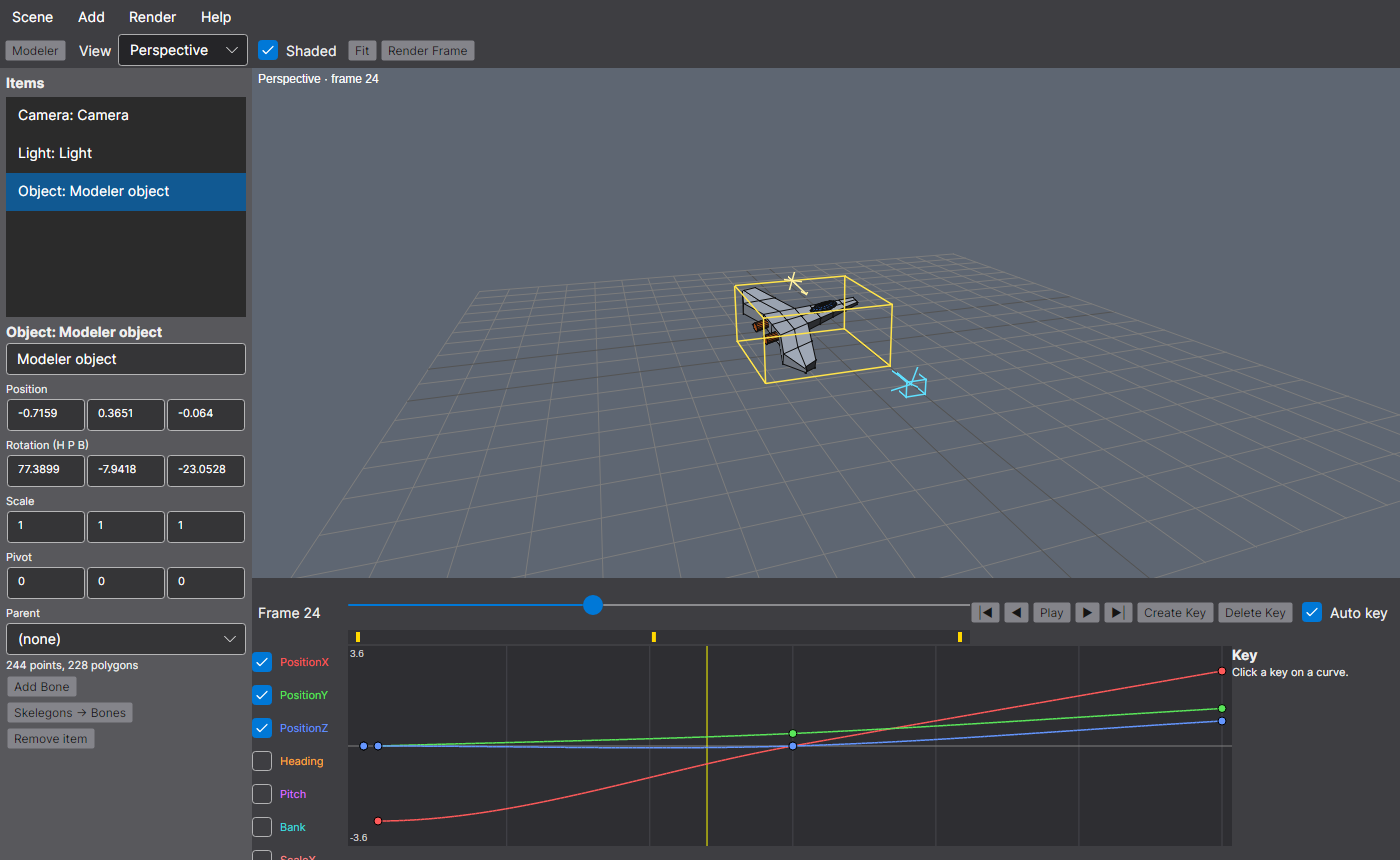
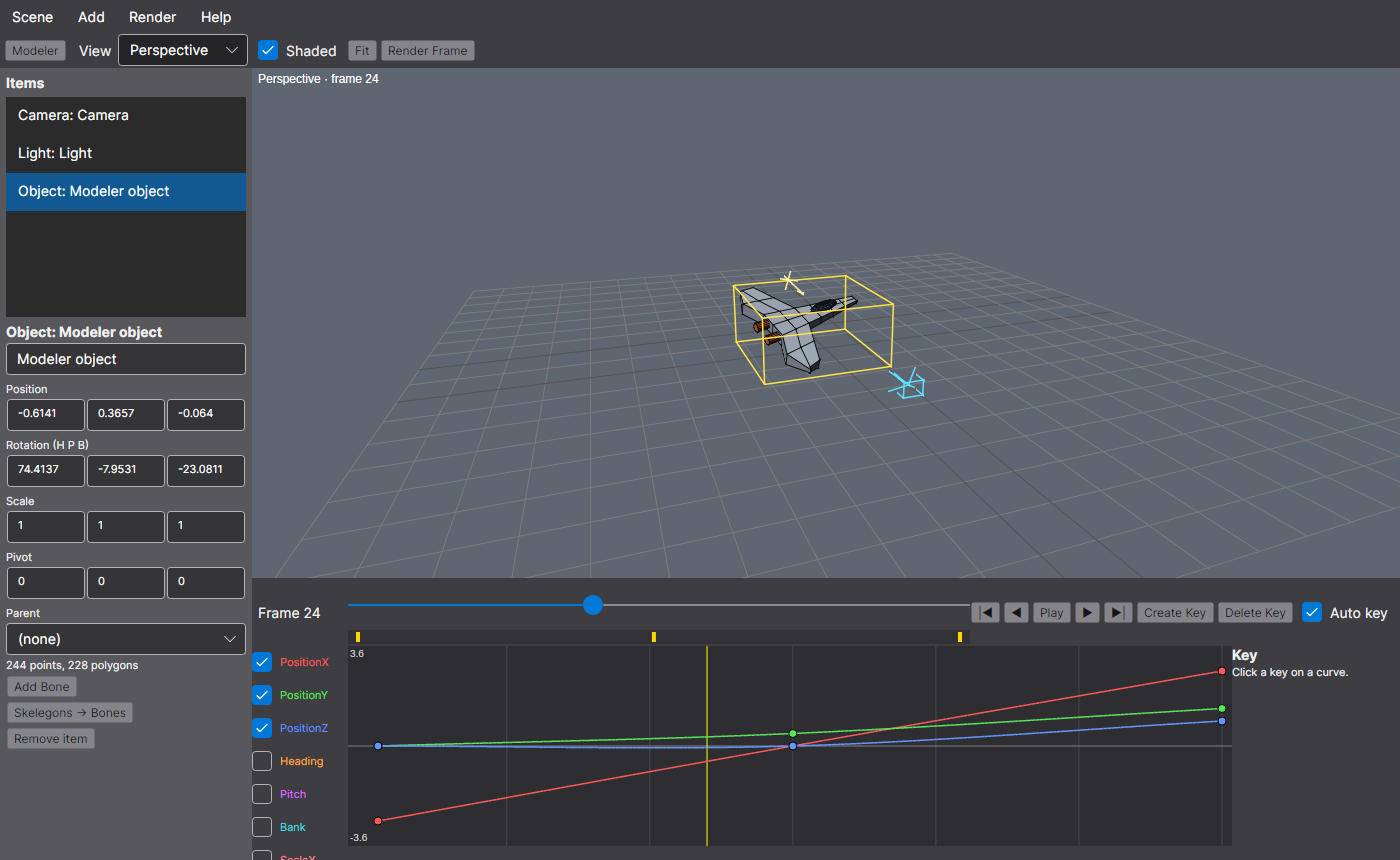
Layout's own keys follow the agents' keying rule
Moving, turning or typing values into an item in Layout now keys through
Keying, as agents' set_transform does: with Auto key on, a channel's first
key replaces its frame-0 constant, so the motion starts at the first frame
keyed. With Auto key off, a channel with one key or none changes
throughout, and an animated one changes (or gains) its key at the frame.
Create Key follows the same rule, and Delete Key leaves a channel's only
key, which holds its value, as delete_key does.

The README's Layout screenshot is refreshed: without the frame-0 keys the
ship sits slightly differently at frame 24.

diff --git a/src/AVAModeler.Layout/LayoutSession.cs b/src/AVAModeler.Layout/LayoutSession.cs
@@ -143,12 +143,17 @@ public sealed class LayoutSession
 
     // ───────────────────────────── editing items ─────────────────────────────
 
-    /// <summary>Sets a channel at the current frame: a key with auto-key on, otherwise the key here (if any) or the whole channel.</summary>
+    /// <summary>
+    /// Sets a channel at the current frame by the rule AI agents' keys follow (<see cref="Keying"/>). With auto-key on,
+    /// a key here; the first one replaces the constant of a channel never keyed, so its animation starts at the first
+    /// frame keyed, not at a key at frame 0 nobody chose. With auto-key off, the value throughout for a channel with
+    /// one key or none, or the key here on an animated channel (one with no key here gets one, so the change isn't lost).
+    /// </summary>
     public void SetChannel(SceneItem item, Channel channel, double value)
     {
         var env = item[channel];
-        if (AutoKey || env.IndexOf(Frame) >= 0 || env.Keys.Count > 1) env.AddKey(Frame, value);
-        else env.SetConstant(value);
+        bool key = AutoKey || Keying.IsAnimated(env) && env.IndexOf(Frame) < 0;
+        Keying.Set(env, Scene, Frame, value, key, $"{item.Name}'s {channel}");
         Scene.Notify();
     }
 
@@ -159,18 +164,32 @@ public sealed class LayoutSession
         SetChannel(item, (Channel)(first + 2), v.Z);
     }
 
+    /// <summary>Keys every channel of the chosen item at this frame with its value here, by the same rule as <see cref="SetChannel"/>.</summary>
     public void CreateKey()
     {
         if (Selected == null) return;
-        Selected.CreateKey(Frame);
+        var values = Selected.Channels.Select(c => c.Evaluate(Frame)).ToArray();
+        for (int i = 0; i < values.Length; i++) Keying.Key(Selected.Channels[i], Scene, new EnvelopeKey(Frame, values[i]), keepShape: true);
+        Scene.Notify();
         SetStatus($"Key made at frame {Frame:0}.");
     }
 
+    /// <summary>
+    /// Removes the chosen item's keys at this frame, but not a channel's only key, which holds its value (as agents'
+    /// delete_key does): without it the channel would fall to 0.
+    /// </summary>
     public void DeleteKey()
     {
         if (Selected == null) return;
-        Selected.DeleteKey(Frame);
-        SetStatus($"Key at frame {Frame:0} deleted.");
+        int kept = 0;
+        foreach (var c in Selected.Channels)
+        {
+            if (c.IndexOf(Frame) < 0) continue;
+            if (c.Keys.Count == 1) kept++;
+            else c.RemoveKeyAt(Frame);
+        }
+        Scene.Notify();
+        SetStatus($"Key at frame {Frame:0} deleted." + (kept > 0 ? $" {kept} channel(s) kept it: it's their only key." : ""));
     }
 
     public void Remove(SceneItem item)

diff --git a/tests/AVAModeler.Layout.Tests/LayoutSessionTests.cs b/tests/AVAModeler.Layout.Tests/LayoutSessionTests.cs
@@ -61,6 +61,53 @@ public class LayoutSessionTests
     }
 
     [Fact]
+    public void Layouts_own_keys_follow_the_same_rule_as_agents()
+    {
+        var s = new LayoutSession();
+        var cam = s.Scene.Cameras.Single();
+        var x = cam[Channel.PositionX];
+
+        // Auto-key: the first key replaces the frame-0 constant, so the motion starts at the first frame keyed.
+        s.SetFrame(10);
+        s.SetChannel(cam, Channel.PositionX, 2);
+        s.SetFrame(40);
+        s.SetChannel(cam, Channel.PositionX, 8);
+        Assert.Equal([10.0, 40.0], x.Keys.Select(k => k.Frame));
+        Assert.Equal(2, cam.PositionAt(1).X, 9);
+
+        // Auto-key off: a channel with one key or none changes throughout; an animated one changes its key here,
+        // and gets one where it has none, so the change isn't lost.
+        s.AutoKey = false;
+        s.SetChannel(cam, Channel.PositionY, 3);
+        Assert.Single(cam[Channel.PositionY].Keys);
+        Assert.Equal(3, cam.PositionAt(50).Y);
+        s.SetChannel(cam, Channel.PositionX, 9);
+        Assert.Equal([10.0, 40.0], x.Keys.Select(k => k.Frame));
+        Assert.Equal(9, x.Evaluate(40));
+        s.SetFrame(25);
+        s.SetChannel(cam, Channel.PositionX, 5);
+        Assert.Equal([10.0, 25.0, 40.0], x.Keys.Select(k => k.Frame));
+
+        // Create Key replaces the constants of channels never keyed too.
+        var light = s.Scene.Lights.Single();
+        s.Select(light);
+        s.SetFrame(5);
+        s.CreateKey();
+        Assert.All(light.Channels, c => Assert.Equal([5.0], c.Keys.Select(k => k.Frame)));
+
+        // Delete Key keeps a channel's only key, which holds its value.
+        var y = light.PositionAt(5).Y;
+        s.DeleteKey();
+        Assert.All(light.Channels, c => Assert.Single(c.Keys));
+        Assert.Equal(y, light.PositionAt(5).Y);
+        Assert.Contains("only key", s.Status);
+        s.Select(cam);
+        s.SetFrame(25);
+        s.DeleteKey();
+        Assert.Equal([10.0, 40.0], x.Keys.Select(k => k.Frame));
+    }
+
+    [Fact]
     public void The_scene_is_modified_until_saved_and_saves_say_what_they_drop()
     {
         var s = new LayoutSession();

diff --git a/src/AVAModeler.Layout/Keying.cs b/src/AVAModeler.Layout/Keying.cs
@@ -3,7 +3,8 @@ using AVAModeler.Scene;
 namespace AVAModeler.Layout;
 
 /// <summary>
-/// How an AI agent's settings become keys, with one rule written down (the MCP tools describe it). A channel that has
+/// How settings become keys, with one rule written down: Layout's controls and AI agents' MCP tools (which describe
+/// it) both follow it. A channel that has
 /// never been keyed holds a constant: one key outside the scene's frames (new items keep it at frame 0). Keying such a
 /// channel at a frame replaces that constant, so an animation starts at the first frame keyed rather than being pulled
 /// about by a key at frame 0 nobody chose. Any other key is only replaced at its own frame, keeping its tension,

diff --git a/tests/AVAModeler.UI.Tests/UITests.cs b/tests/AVAModeler.UI.Tests/UITests.cs
@@ -319,7 +319,8 @@ public class LayoutTests
         layout.Session.SetFrame(15);
         double x = obj.PositionAt(15).X;
         Assert.InRange(x, 0.2, 1.8);
-        Assert.Equal([0.0, 1.0, 30.0], obj.KeyFrames()); // a new channel starts with a key at frame 0, as in LightWave
+        // The first key replaces the frame-0 constant, as agents' keys do (channels not keyed keep theirs).
+        Assert.Equal([1.0, 30.0], obj[Channel.PositionX].Keys.Select(k => k.Frame));
         // The Modeler's edits show at once.
         int before = obj.BaseMesh().Polygons.Count;
         w.ShowModeler();

diff --git a/AGENTS.md b/AGENTS.md
@@ -42,8 +42,8 @@ python3 samples/images/make_textures.py           # redraws the sample texture i
 - `src/AVAModeler.Layout/`: Layout's state without its controls, so the workspace and the MCP server share it.
   - `LayoutSession.cs`: the scene being worked on, its frame, chosen item and auto-key, the Modeler's object in the
     scene, loading and saving scenes (with an object loader passed in), the modified flag.
-  - `SceneDrawing.cs` (what Layout's views draw, and looking through a scene camera) and `Keying.cs` (how an agent's
-    values become keys).
+  - `SceneDrawing.cs` (what Layout's views draw, and looking through a scene camera) and `Keying.cs` (how values become keys:
+    one rule for Layout's controls and agents alike).
 - `src/AVAModeler.Mcp/`: the MCP server for AI agents (on the official C# SDK, `ModelContextProtocol.Core`). No UI.
   - `ModelerTools.cs` is every Modeler tool and `LayoutTools.cs` every Layout (scene) tool, one partial class in the
     SDK's attribute model; `ModelerServer.cs` builds the server and its instructions to agents. `ToolCatalog.cs`

diff --git a/README.md b/README.md
@@ -138,7 +138,9 @@ Modeler and Layout shows the change at once.
 - **The scene**: objects, nulls, lights, cameras and bones, each with a parent and a pivot. Objects can also be
   loaded from files.
 - **Animation**: a key per channel, interpolated by Kochanek–Bartels TCB splines as classic LightWave did.
-  - With Auto key on, moving or turning an item in the view keys it at the current frame.
+  - With Auto key on, moving or turning an item in the view keys it at the current frame. An item's first key
+    replaces its starting value, so its motion begins at the first frame you key. AI agents' keys follow the same rule.
+  - Delete Key leaves a channel's only key, which holds its value.
   - The timeline plays, steps, and shows the chosen item's keys.
   - The graph editor shows the channels as curves. Choose a key to set its value, tension, continuity, bias and
     linear flag, and set what happens before the first key and after the last.
